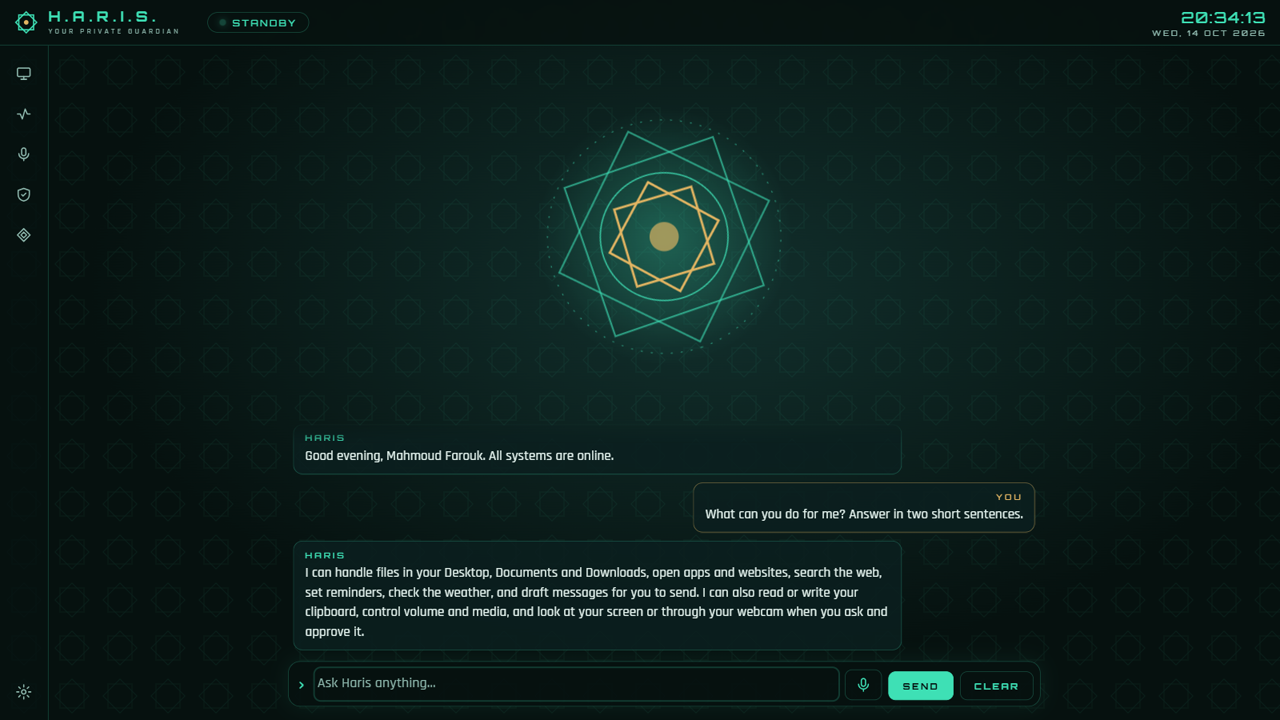
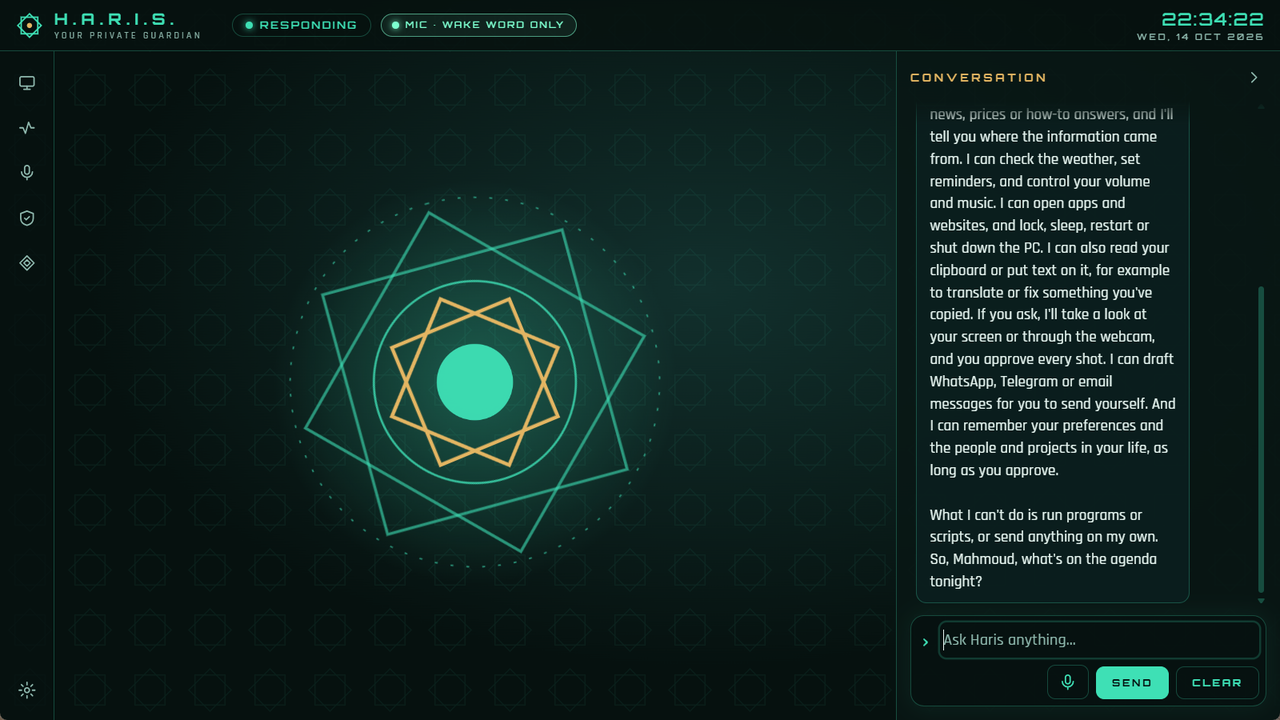
docs: README screenshots from the desktop app (conversation column, voice mode)

diff --git a/README.ar.md b/README.ar.md
@@ -19,6 +19,8 @@
 
 <p align="center"><img src="docs/media/approval.gif" width="720" alt="حارس بيستأذن قبل أي فعل" /></p>
 
+<p align="center"><img src="docs/media/06-voice-mode.png" width="720" alt="وضع الصوت: أخفِ المحادثة واترك خانة الكتابة" /><br/><em>وضع الصوت: أخفِ المحادثة واترك خانة الكتابة</em></p>
+
 ## المميزات
 
 - 🧠 **أي موديل:** Claude، أو موديل محلي، أو سحابة متوافقة مع OpenAI، أو Colab ورا proxy بيتأكد من التوكن.

diff --git a/README.md b/README.md
@@ -24,6 +24,8 @@ Java 21 + Spring Boot core · SVG HUD (English or Arabic) · your choice of brai
 |---|---|---|
 | ![English answer](docs/media/02-english-answer.png) | ![Approval card](docs/media/03-approval.png) | ![Arabic answer](docs/media/05-arabic.png) |
 
+<p align="center"><img src="docs/media/06-voice-mode.png" width="720" alt="Voice mode: hide the conversation, keep the input" /><br/><em>Voice mode: hide the conversation, keep the input</em></p>
+
 ## Features
 
 | | |
